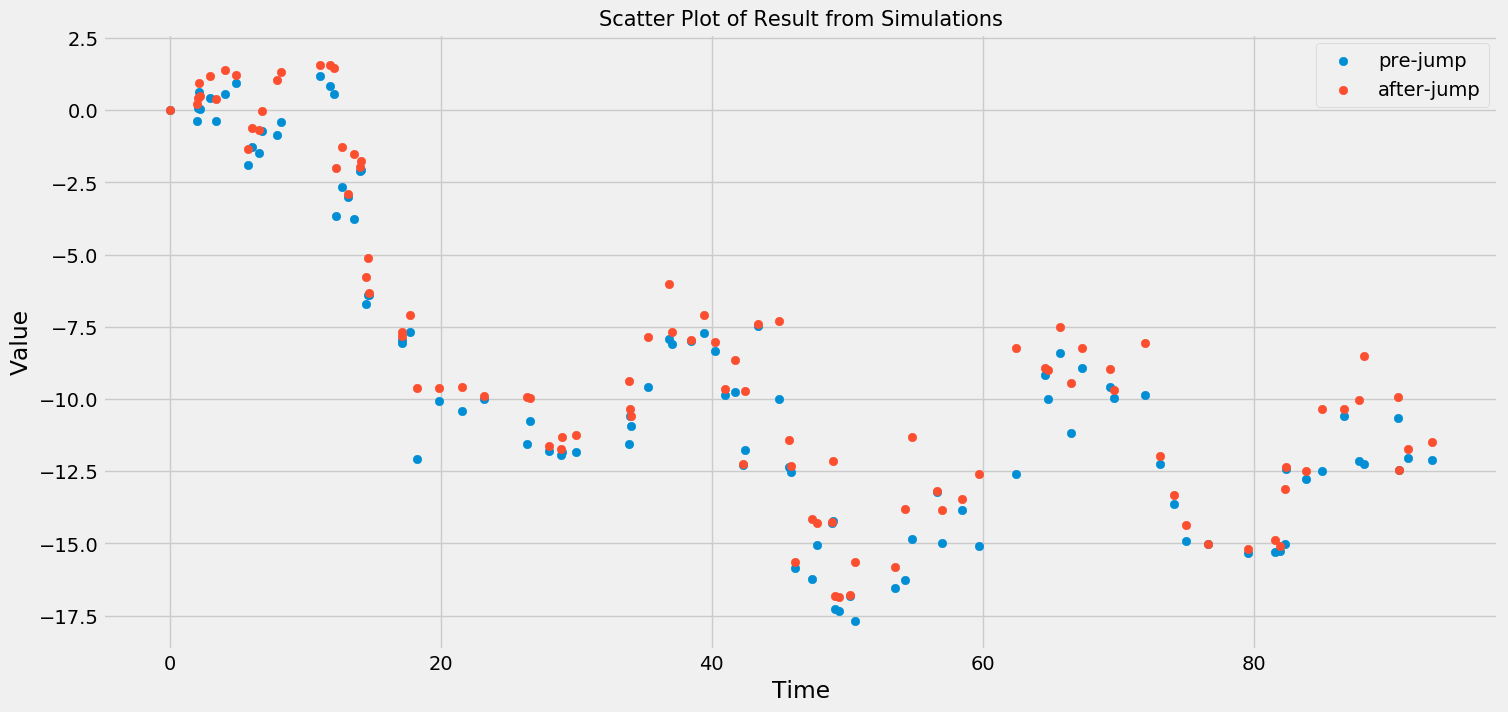
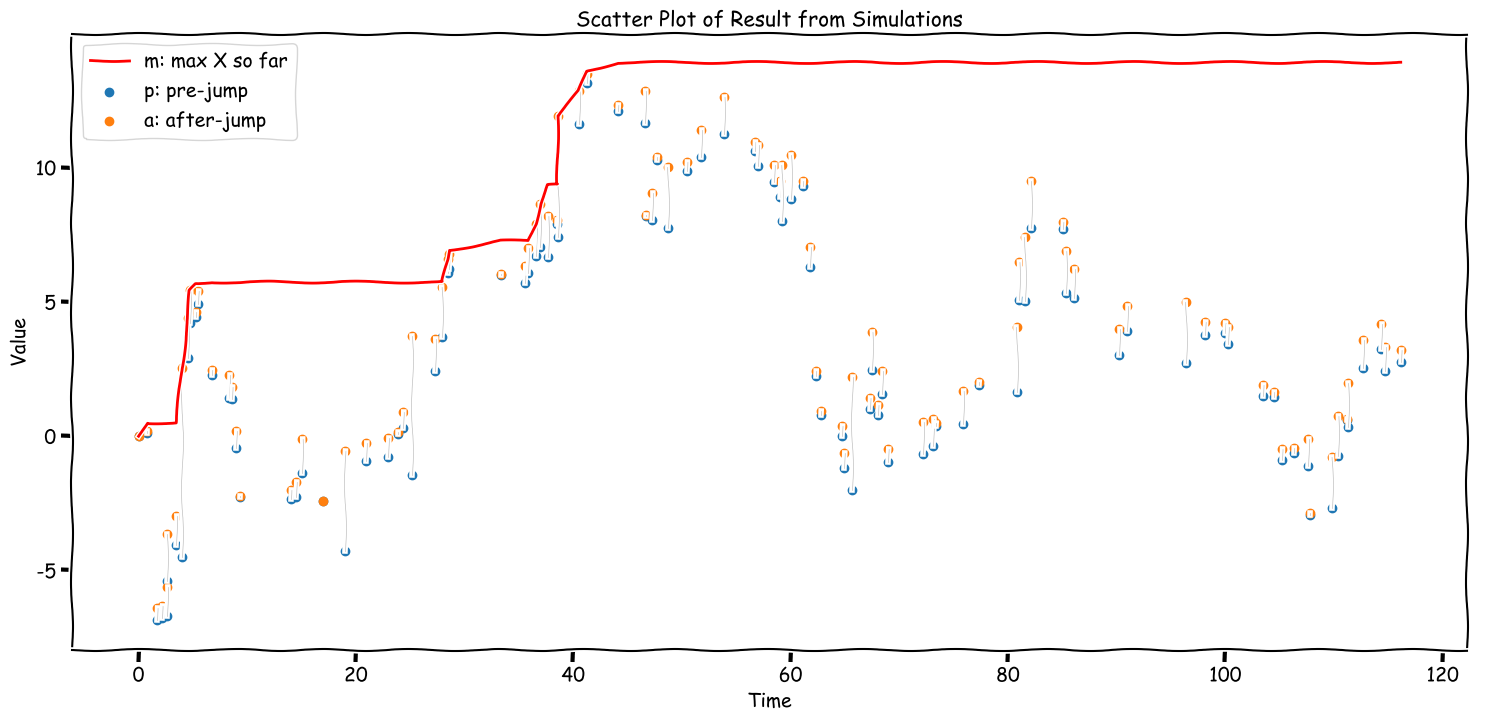
update

diff --git a/visualize.py b/visualize.py
@@ -7,7 +7,7 @@ from matplotlib import pyplot as plt
 import logging
 
 
-def hist(list_result, num_bin, whe_show, name_fig):
+def hist(list_result, num_bin, name_fig, whe_show=False):
     array_density, array_edge = np.histogram(list_result, bins=num_bin, density=True)
     len_edge = array_edge[1] - array_edge[0]
     list_density = [i * len_edge for i in array_density.tolist()]
@@ -26,11 +26,15 @@ def hist(list_result, num_bin, whe_show, name_fig):
     return list_density
 
 
-def scatter_ap(list_s, list_p, list_a, name_fig, whe_show=False):
+def jump_ap(list_s, list_p, list_a, list_m, name_fig, whe_show=False):
     fig = plt.figure(figsize=(18, 8))
+    # plt.xkcd()
     plt.style.use("fivethirtyeight")
-    plt.scatter(list_s, list_p, label="pre-jump")
-    plt.scatter(list_s, list_a, label="after-jump")
+    for i in range(len(list_s)):
+        plt.plot([list_s[i], list_s[i]], [list_p[i], list_a[i]], c='silver', linewidth=0.5)
+    plt.scatter(list_s, list_p, label="p: pre-jump")
+    plt.scatter(list_s, list_a, label="a: after-jump")
+    plt.plot(list_s, list_m, c='red', label='m: max X so far')
     plt.xlabel('Time')
     plt.ylabel('Value')
     plt.legend()  # loc='upper right'
@@ -40,7 +44,7 @@ def scatter_ap(list_s, list_p, list_a, name_fig, whe_show=False):
     fig.savefig('images/' + name_fig + '.png', bbox_inches='tight')
 
 
-def line_ap(list_s, list_p, list_a, name_fig, whe_show=False):
+def line_apm(list_s, list_p, list_a, list_m, name_fig, whe_show=False):
     fig = plt.figure(figsize=(18, 8))
     plt.style.use("fivethirtyeight")
     n = len(list_s)
@@ -53,10 +57,12 @@ def line_ap(list_s, list_p, list_a, name_fig, whe_show=False):
         list_result[2 * i + 1] = list_a[i]
         list_ss[2 * i] = list_s[i]
         list_ss[2 * i + 1] = list_s[i]
-    plt.plot(list_ss, list_result)
+    plt.plot(list_ss, list_result, label='X')
+    plt.scatter(list_s, list_m, c='r', label='M')
     plt.xlabel('Time')
     plt.ylabel('Value')
     plt.title('Line Plot of Result from Simulations', fontsize=15)
+    plt.legend()
     if whe_show:  # Whether to show the plot
         plt.show()
     fig.savefig('images/' + name_fig + '.png', bbox_inches='tight')

diff --git a/setup.py b/setup.py
@@ -30,9 +30,9 @@ def task1():
         list_p_result[i] = list_result[0]
         list_a_result[i] = list_result[1]
         list_m_result[i] = list_result[2]
-    vi.hist(list_p_result, 30, False, '1')
-    vi.hist(list_a_result, 30, False, '2')
-    vi.hist(list_m_result, 30, False, '3')
+    vi.hist(list_p_result, 30, '1')
+    vi.hist(list_a_result, 30, '2')
+    vi.hist(list_m_result, 30, '3')
     return list_p_result, list_a_result, list_m_result
 
 
@@ -43,8 +43,8 @@ def test():
     lamb = 1
     func_dist_y = select_dist(lamb)
     df, list_result = sl.sim(n_sample, mu, sigma, lamb, func_dist_y)
-    vi.scatter_ap(list_s=df.s, list_p=df.p, list_a=df.a, name_fig='4')
-    vi.line_ap(list_s=df.s, list_p=df.p, list_a=df.a, name_fig='5')
+    vi.jump_ap(list_s=df.s, list_p=df.p, list_a=df.a, list_m=df.m, name_fig='4')
+    # vi.line_apm(list_s=df.s, list_p=df.p, list_a=df.a, list_m=df.m, name_fig='5')
     # print("p = {}".format(list_result[0]))
     # print("a = {}".format(list_result[1]))
     # print("m = {}".format(list_result[2]))

diff --git a/func_dist.py b/func_dist.py
@@ -8,11 +8,11 @@ import random
 def exp(lamb):
     """
     Generate x from exponential distribution
-    pdf(x, lambda) 1 / beta * exp(- x / beta)
+    pdf(x, beta) 1 / beta * exp(- x / beta)
     mean = lambda = 1 / beta
     :param lamb:
     :return:
     """
-    return random.expovariate(lamb)
+    return random.expovariate(1 / lamb)
 
 
